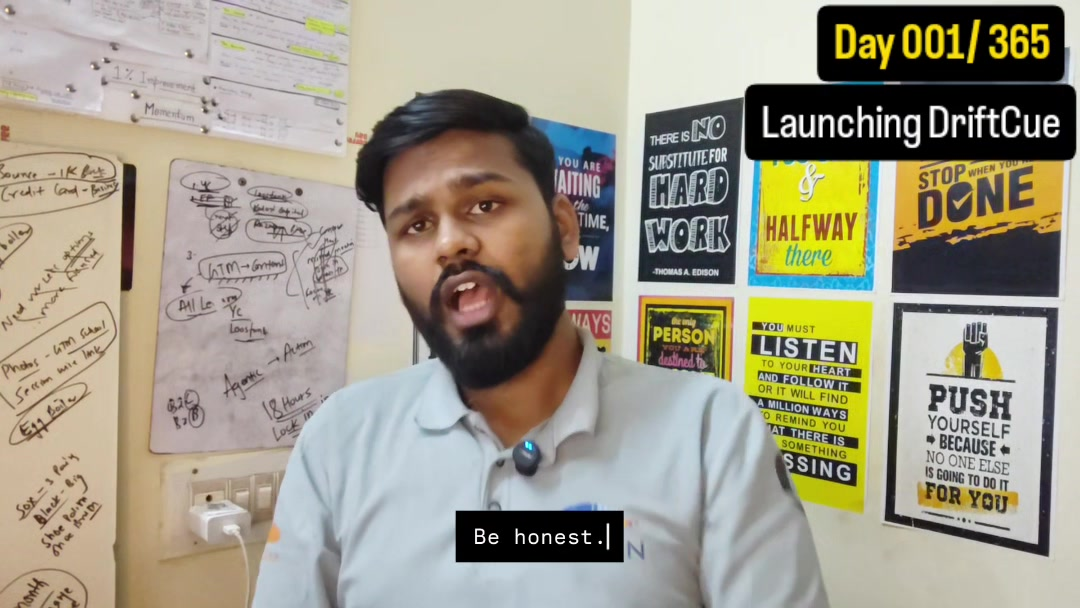
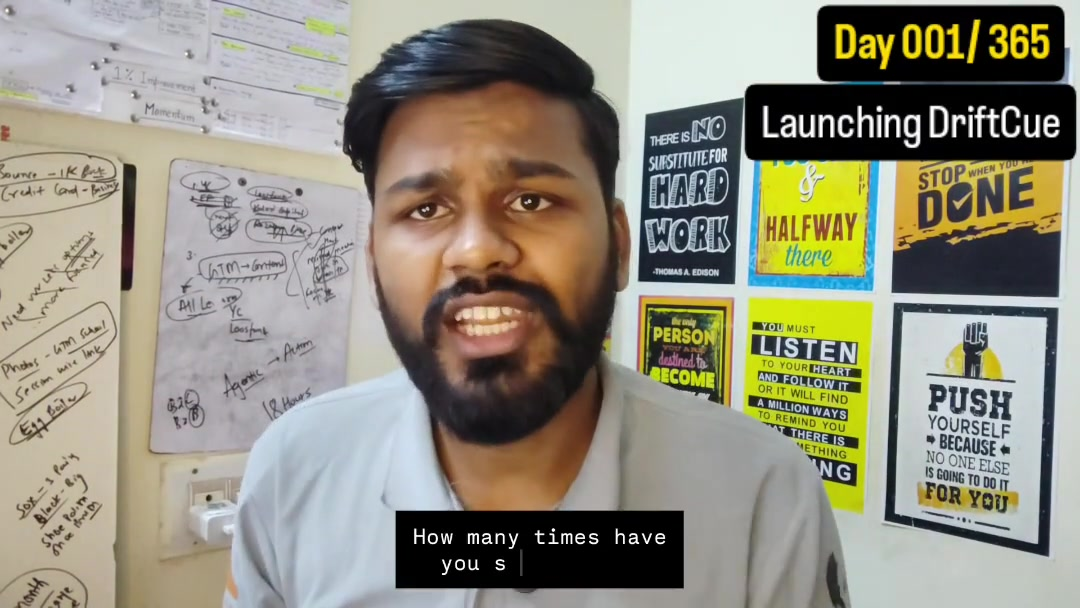
fix: remove dark video overlay for crystal-clear focus and center hero heading at 50% of screen

diff --git a/DriftCue landing page/style.css b/DriftCue landing page/style.css
@@ -366,16 +366,16 @@ main {
   min-height: calc(100vh - 88px);
   display: flex;
   flex-direction: column;
-  justify-content: center;
+  justify-content: flex-start;
   align-items: center;
-  padding: 40px 4vw 36px;
+  padding: clamp(90px, 16vh, 180px) 4vw 90px;
   position: relative;
   text-align: center;
 }
 
 .hero-container {
   max-width: 1280px;
-  margin: auto 0;
+  margin: 0 auto;
   display: flex;
   flex-direction: column;
   align-items: center;
@@ -418,7 +418,10 @@ main {
 }
 
 .hero-scroll-prompt {
-  margin-top: auto;
+  position: absolute;
+  bottom: 24px;
+  left: 50%;
+  transform: translateX(-50%);
   display: inline-flex;
   align-items: center;
   gap: 8px;
@@ -427,7 +430,7 @@ main {
   color: var(--text-muted);
   text-decoration: none;
   transition: color 0.15s ease;
-  padding-top: 24px;
+  z-index: 2;
 }
 
 .hero-scroll-prompt:hover {
@@ -530,90 +533,9 @@ main {
   width: 100%;
   height: 100%;
   object-fit: contain;
-  background: #070B09;
-  display: none;
-}
-
-.video-placeholder {
-  position: absolute;
-  inset: 0;
-  display: flex;
-  align-items: center;
-  justify-content: center;
-  padding: 40px 24px;
-  text-align: center;
-  background: linear-gradient(180deg, rgba(10, 16, 12, 0.72) 0%, rgba(7, 11, 9, 0.88) 100%),
-              url('assets/demo-poster.jpg') center/cover no-repeat;
-  cursor: pointer;
-  transition: opacity 0.3s ease, visibility 0.3s ease;
-}
-
-.placeholder-center {
-  max-width: 560px;
-  display: flex;
-  flex-direction: column;
-  align-items: center;
-}
-
-.play-btn-circle {
-  width: 84px;
-  height: 84px;
-  border-radius: 50%;
-  background: #E8F5EE;
-  color: #1A382B;
-  display: flex;
-  align-items: center;
-  justify-content: center;
-  font-size: 30px;
-  margin-bottom: 22px;
-  box-shadow: 0 10px 30px rgba(110, 231, 150, 0.35);
-  cursor: pointer;
-  transition: transform 0.25s cubic-bezier(0.16, 1, 0.3, 1),
-              box-shadow 0.25s ease,
-              background 0.2s ease;
-  position: relative;
-}
-
-.play-btn-circle::before {
-  content: "";
-  position: absolute;
-  inset: -6px;
-  border-radius: 50%;
-  border: 2px solid rgba(110, 231, 150, 0.65);
-  animation: playPulse 2.4s infinite ease-out;
-  pointer-events: none;
-}
-
-@keyframes playPulse {
-  0% { transform: scale(0.95); opacity: 0.8; }
-  50% { transform: scale(1.18); opacity: 0; }
-  100% { transform: scale(0.95); opacity: 0; }
-}
-
-.play-btn-circle:hover {
-  transform: scale(1.1);
-  background: #FFFFFF;
-  box-shadow: 0 16px 40px rgba(110, 231, 150, 0.55);
-}
-
-.play-triangle {
-  margin-left: 4px;
-}
-
-.placeholder-heading {
-  font-size: clamp(20px, 2.5vw, 26px);
-  font-weight: 800;
-  color: #FFFFFF;
-  margin-bottom: 8px;
-  letter-spacing: -0.02em;
-  text-shadow: 0 2px 8px rgba(0, 0, 0, 0.6);
-}
-
-.placeholder-caption {
-  font-size: 15px;
-  line-height: 1.5;
-  color: #C5D4CB;
-  text-shadow: 0 1px 4px rgba(0, 0, 0, 0.6);
+  background: #000000;
+  display: block;
+  border-radius: 0 0 16px 16px;
 }
 
 /* ==========================================================================

diff --git a/DriftCue landing page/script.js b/DriftCue landing page/script.js
@@ -44,46 +44,24 @@ function initFaqAccordion() {
 }
 
 /**
- * Video Player & Placeholder Handler
+ * Video Player & Telemetry Handler
  */
 function initVideoPlayer() {
   const video = document.getElementById("hero-video-player");
-  const videoSource = document.getElementById("video-source");
-  const placeholder = document.getElementById("video-placeholder");
+  if (!video) return;
 
-  if (!video || !placeholder) return;
-
-  let isPlaying = false;
   const videoMilestones = { 25: false, 50: false, 75: false, 100: false };
+  let hasStarted = false;
 
-  function playVideo() {
-    const hasSource = Boolean(videoSource && videoSource.src && videoSource.src.trim() !== "" && !videoSource.src.endsWith("/"));
-    trackPosthogEvent("demo_video_click", { has_local_source: hasSource });
-
-    if (hasSource) {
-      placeholder.style.opacity = "0";
-      placeholder.style.pointerEvents = "none";
-      setTimeout(() => {
-        placeholder.style.display = "none";
-      }, 300);
-
-      video.style.display = "block";
-      video.play().then(() => {
-        isPlaying = true;
-        trackPosthogEvent("demo_video_started", {
-          video_src: videoSource.src,
-          duration: video.duration || 114
-        });
-      }).catch((err) => {
-        console.warn("Auto-play prevented or user aborted:", err);
+  video.addEventListener("play", () => {
+    if (!hasStarted) {
+      hasStarted = true;
+      trackPosthogEvent("demo_video_started", {
+        video_src: video.currentSrc || "assets/demo.mp4",
+        duration: Math.round(video.duration || 114)
       });
-    } else {
-      showVideoNoticeModal();
     }
-  }
-
-  // Trigger play by clicking play button or whole placeholder frame
-  placeholder.addEventListener("click", playVideo);
+  });
 
   // Video progress telemetry
   video.addEventListener("timeupdate", () => {

diff --git a/DriftCue landing page/index.html b/DriftCue landing page/index.html
@@ -164,7 +164,7 @@
           </div>
 
           <div class="video-media-box">
-            <!-- DriftCue Official Walkthrough Demo Video -->
+            <!-- DriftCue Official Walkthrough Demo Video (Direct, High-Definition, Zero Dark Overlay) -->
             <video 
               id="hero-video-player" 
               class="hero-video-player" 
@@ -176,19 +176,6 @@
               <source id="video-source" src="assets/demo.mp4" type="video/mp4">
               Your browser does not support the video tag.
             </video>
-
-            <!-- Interactive Premium Video Poster Overlay -->
-            <div class="video-placeholder" id="video-placeholder">
-              <div class="placeholder-center">
-                <button class="play-btn-circle" id="play-trigger-btn" aria-label="Play Walkthrough Demo">
-                  <span class="play-triangle">▶</span>
-                </button>
-                <h3 class="placeholder-heading">Watch DriftCue in Action</h3>
-                <p class="placeholder-caption">
-                  Full 1-minute 54-second walkthrough demo • Click anywhere to play
-                </p>
-              </div>
-            </div>
           </div>
         </div>
 
